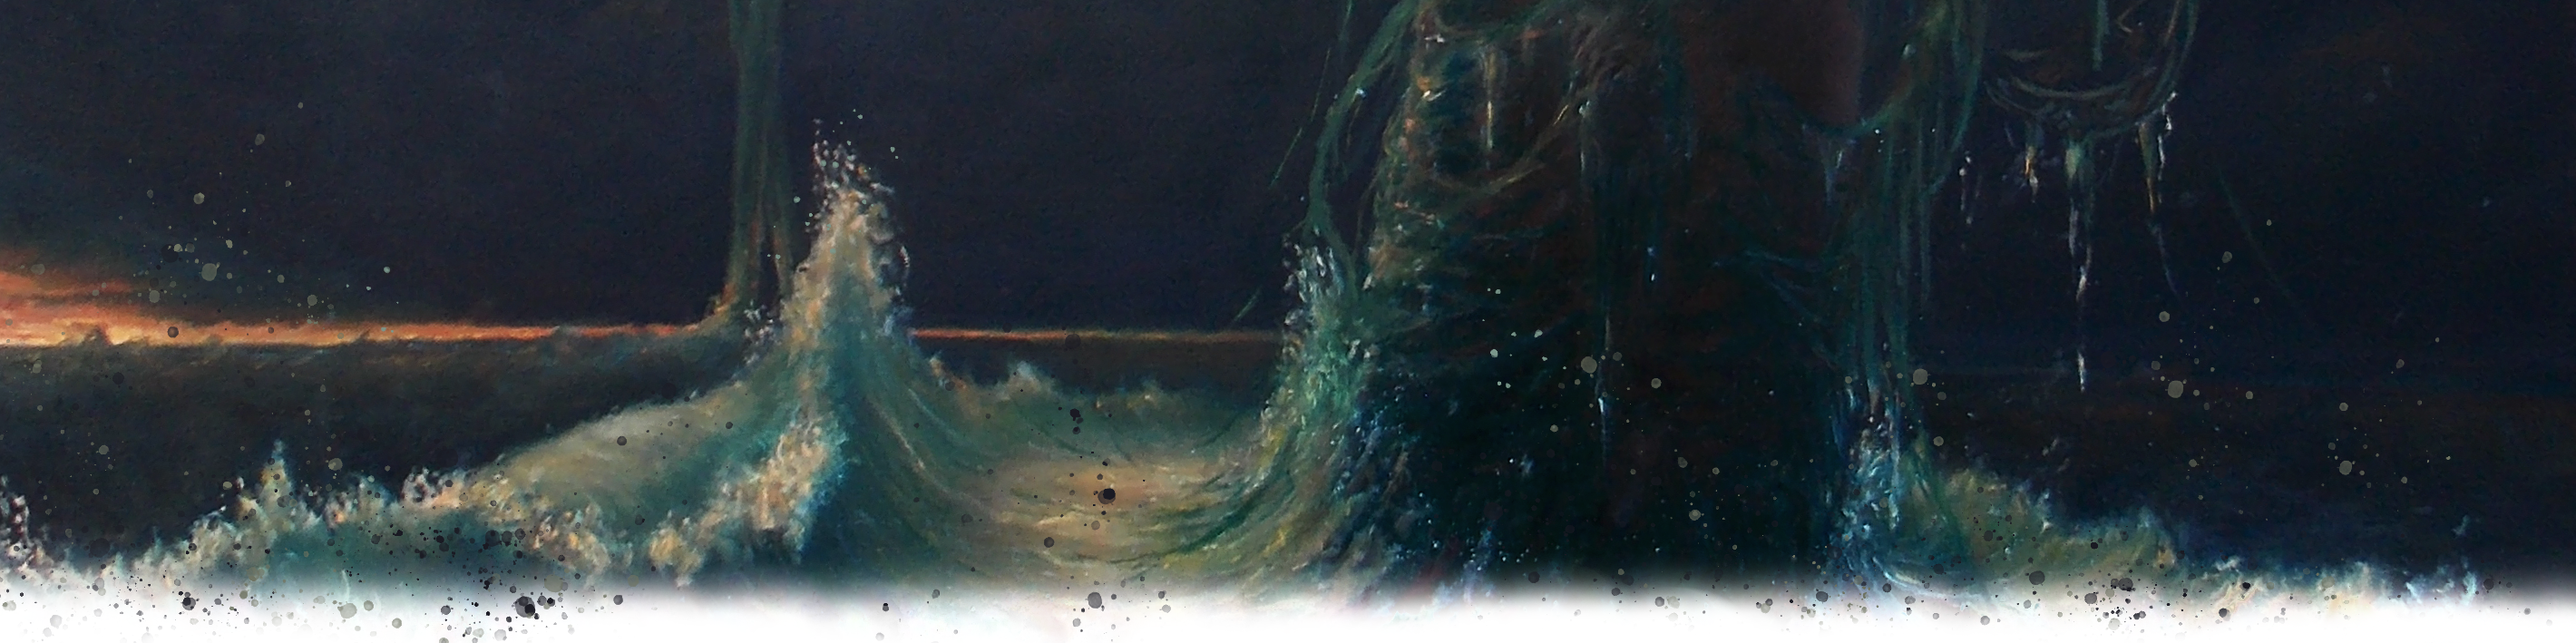
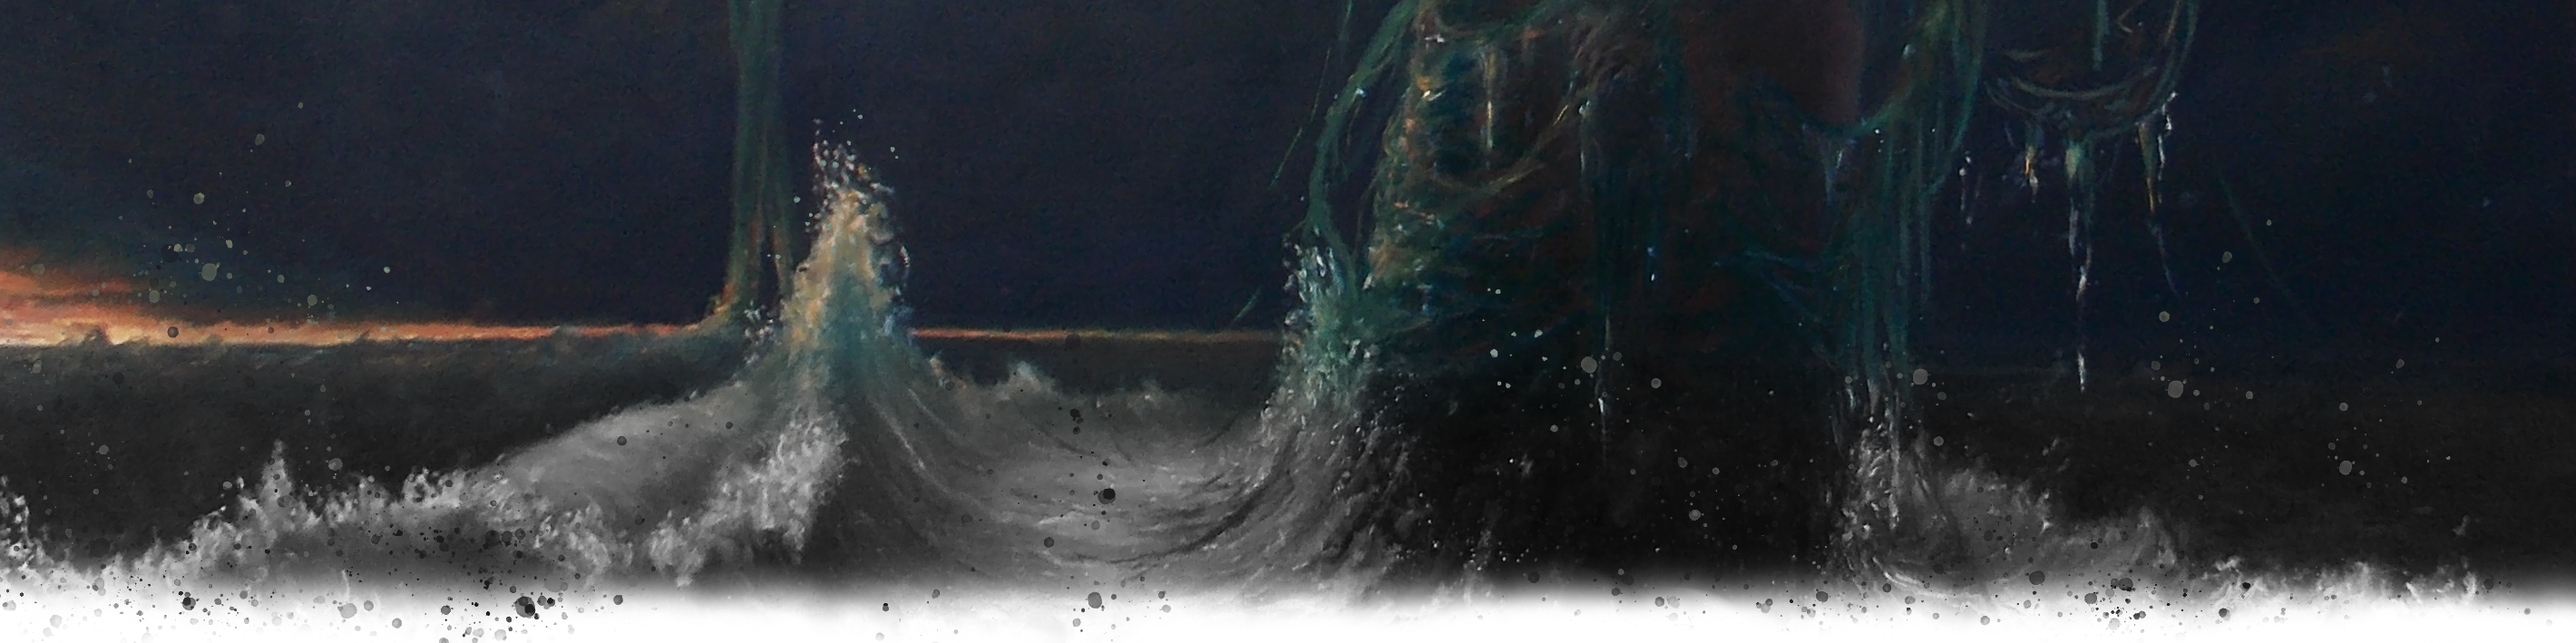
Frontend change
Changed some images.

diff --git a/public/css/welcome_page.css b/public/css/welcome_page.css
@@ -6,6 +6,8 @@
   
   .hero-image {
     background-image: url("/images/header.png");
+    /*-webkit-mask-image: linear-gradient(black, transparent);
+    mask-image: linear-gradient(black, transparent);*/
     height: 50%;
     background-position: center;
     background-repeat: no-repeat;
@@ -150,7 +152,8 @@ body {
   text-align: center;
   background-color: #020812;
   border-color: rgb(13, 108, 128);
-  border-bottom: 3px solid
+  border-bottom: 3px solid;
+  filter: grayscale(100%);
 }
 
 .font-aclonica {
@@ -209,3 +212,4 @@ a:link {
   a:active {
     color: rgb(148, 214, 201);
   }
+

diff --git a/resources/views/pages/welcome.blade.php b/resources/views/pages/welcome.blade.php
@@ -25,7 +25,7 @@
 </div>
 
 <!--Image header bar-->
-<div class="top-container hero-image">
+<div class="top-container hero-image" id="grad">
   <h1 class="hero-text">Bojana Jokic Art</h1>
   <p class="hero-text-subbtitle">Welcome. Feel free to browse.</p>
 </div>
@@ -47,7 +47,7 @@
 <div class="column">
   <div class="card">
     <div class="card-inner">
-      <img src="/images/empty.jpg" alt="sculptures" style="width:100%">
+      <img src="/images/empty_cut.png" alt="sculptures" style="width:100%">
       <h1 class="font-color font-aclonica">Sculptures</h1>
       <p class="font-color">My latest passion is sculpting. Take a look at some of the things I've made.</p>
     </div>
@@ -67,7 +67,7 @@
 <div class="column">
   <div class="card">
     <div class="card-inner">
-      <img src="/images/melting.jpg" alt="blog" style="width:100%">
+      <img src="/images/melting_cut.png" alt="blog" style="width:100%">
       <h1 class="font-color font-aclonica"><a href="/blog">Art blog</a></h1>
       <p class="font-color">All about art and artistic life: news, interesting stuff, etc.</p>    
     </div>
